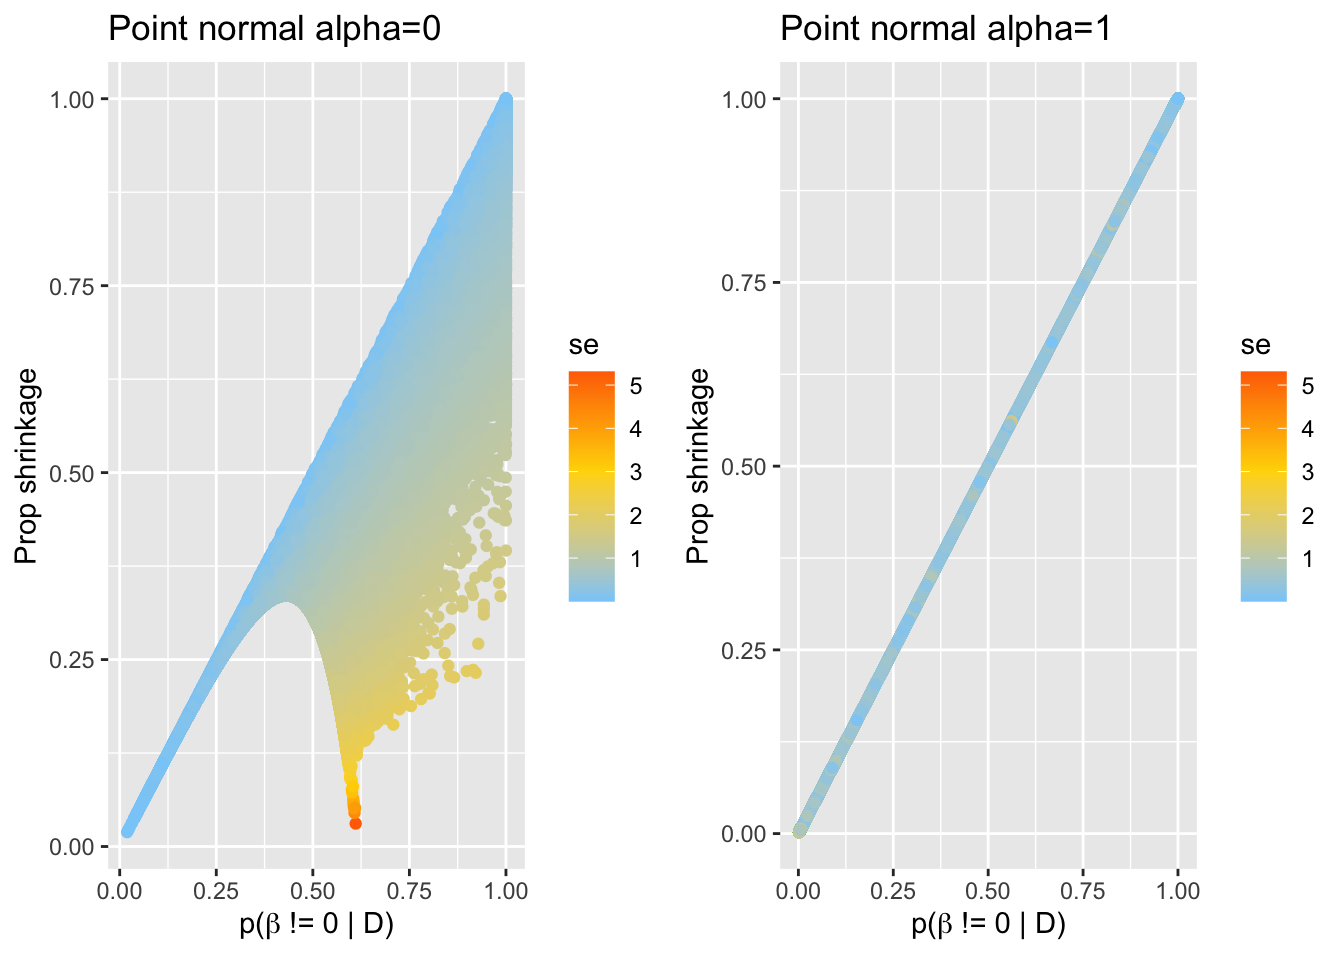
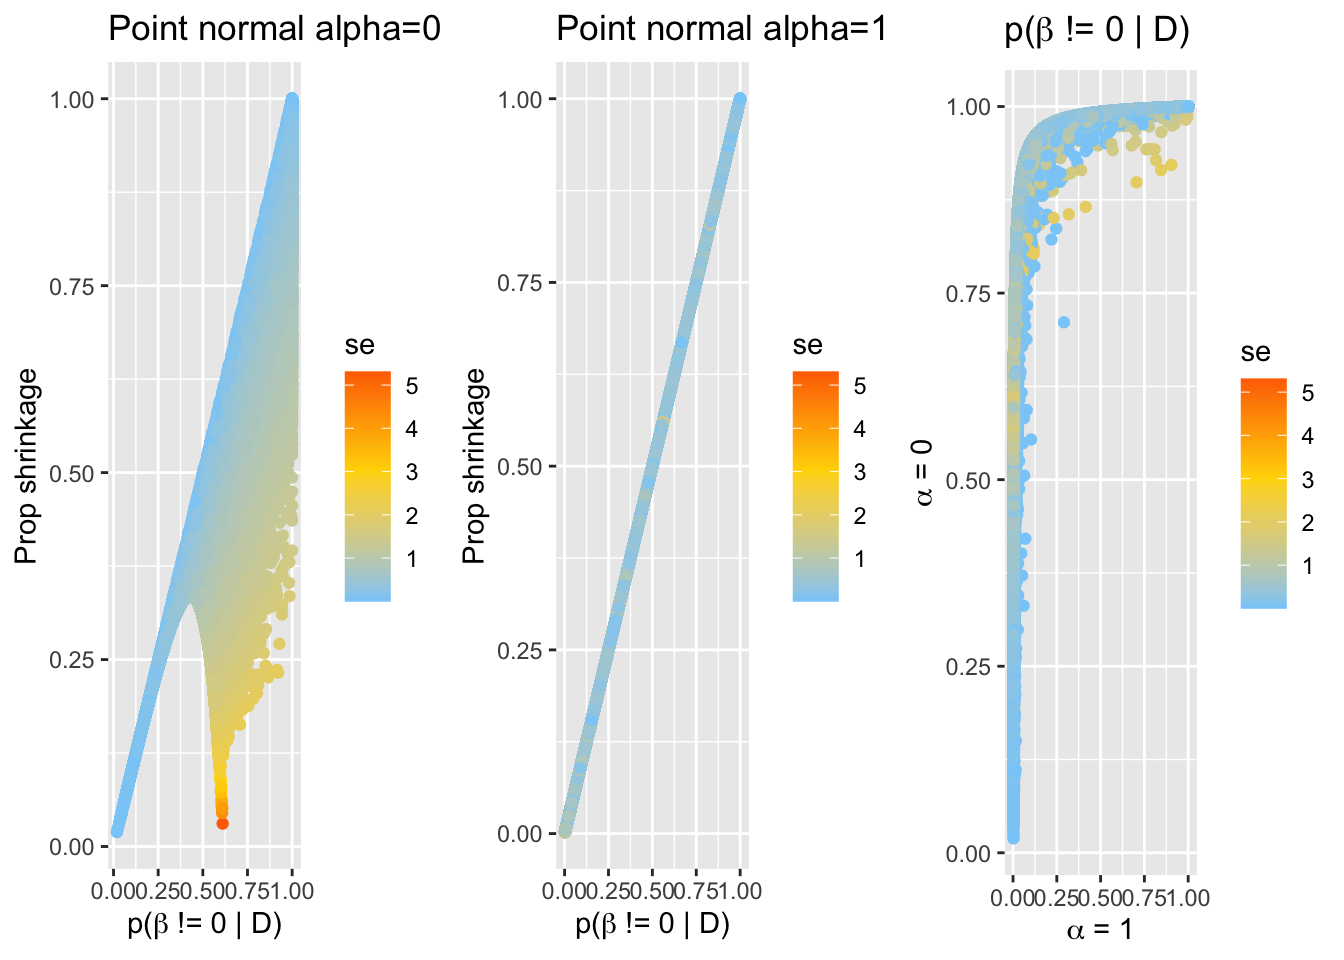
Build site.

diff --git a/docs/alpha_for_single_cell.html b/docs/alpha_for_single_cell.html
@@ -516,16 +516,16 @@ data/de-droplet/de-droplet-noshrink.RData
 <div class="panel panel-default">
 <div class="panel-heading">
 <p class="panel-title">
-<a data-toggle="collapse" data-parent="#workflowr-checks" href="#strongRepositoryversionstrongahrefhttpsgithubcomkarltayeblogisticsusiegseatree67d1eb8196052a3a8b32926b54cbaa843f159bf4targetblank67d1eb8a"> <span class="glyphicon glyphicon-ok text-success" aria-hidden="true"></span> <strong>Repository version:</strong> <a href="https://github.com/karltayeb/logistic-susie-gsea/tree/67d1eb8196052a3a8b32926b54cbaa843f159bf4" target="_blank">67d1eb8</a> </a>
+<a data-toggle="collapse" data-parent="#workflowr-checks" href="#strongRepositoryversionstrongahrefhttpsgithubcomkarltayeblogisticsusiegseatree67092ad1a4d4690a0614eac60587946e101c580ctargetblank67092ada"> <span class="glyphicon glyphicon-ok text-success" aria-hidden="true"></span> <strong>Repository version:</strong> <a href="https://github.com/karltayeb/logistic-susie-gsea/tree/67092ad1a4d4690a0614eac60587946e101c580c" target="_blank">67092ad</a> </a>
 </p>
 </div>
[2 lines of base64/hex data omitted]
 <div class="panel-body">
 <p>
 Great! You are using Git for version control. Tracking code development and connecting the code version to the results is critical for reproducibility.
 </p>
 <p>
-The results in this page were generated with repository version <a href="https://github.com/karltayeb/logistic-susie-gsea/tree/67d1eb8196052a3a8b32926b54cbaa843f159bf4" target="_blank">67d1eb8</a>. See the <em>Past versions</em> tab to see a history of the changes made to the R Markdown and HTML files.
+The results in this page were generated with repository version <a href="https://github.com/karltayeb/logistic-susie-gsea/tree/67092ad1a4d4690a0614eac60587946e101c580c" target="_blank">67092ad</a>. See the <em>Past versions</em> tab to see a history of the changes made to the R Markdown and HTML files.
 </p>
 <p>
 Note that you need to be careful to ensure that all relevant files for the analysis have been committed to Git prior to generating the results (you can use <code>wflow_publish</code> or <code>wflow_git_commit</code>). workflowr only checks the R Markdown file, but you know if there are other scripts or data files that it depends on. Below is the status of the Git repository when the results were generated:
@@ -642,6 +642,40 @@ Message
 </tr>
 </thead>
 <tbody>
+<tr>
+<td>
+Rmd
+</td>
+<td>
+<a href="https://github.com/karltayeb/logistic-susie-gsea/blob/67092ad1a4d4690a0614eac60587946e101c580c/analysis/alpha_for_single_cell.Rmd" target="_blank">67092ad</a>
+</td>
+<td>
+karltayeb
+</td>
+<td>
+2022-04-10
+</td>
+<td>
+wflow_publish(“analysis/alpha_for_single_cell.Rmd”)
+</td>
+</tr>
+<tr>
+<td>
+html
+</td>
+<td>
+<a href="https://rawcdn.githack.com/karltayeb/logistic-susie-gsea/690723cd37813f460aee4c07daafcbbc04264ee8/docs/alpha_for_single_cell.html" target="_blank">690723c</a>
+</td>
+<td>
+karltayeb
+</td>
+<td>
+2022-04-10
+</td>
+<td>
+Build site.
+</td>
+</tr>
 <tr>
 <td>
 Rmd
@@ -809,6 +843,43 @@ p3 &lt;- ggplot(quantiles, aes(x = q.ash.0,y = q.ash.1)) +
   theme_cowplot(font_size = 12)
 plot_grid(p1,p2,p3,nrow = 1,ncol = 3)</code></pre>
 <p><img src="figure/alpha_for_single_cell.Rmd/ash.plot-1.png" width="672" style="display: block; margin: auto;" /></p>
+<p>
+<button type="button" class="btn btn-default btn-xs btn-workflowr btn-workflowr-fig" data-toggle="collapse" data-target="#fig-ash.plot-1">
+Past versions of ash.plot-1.png
+</button>
+</p>
+<div id="fig-ash.plot-1" class="collapse">
+<div class="table-responsive">
+<table class="table table-condensed table-hover">
+<thead>
+<tr>
+<th>
+Version
+</th>
+<th>
+Author
+</th>
+<th>
+Date
+</th>
+</tr>
+</thead>
+<tbody>
+<tr>
+<td>
+<a href="https://github.com/karltayeb/logistic-susie-gsea/blob/690723cd37813f460aee4c07daafcbbc04264ee8/docs/figure/alpha_for_single_cell.Rmd/ash.plot-1.png" target="_blank">690723c</a>
+</td>
+<td>
+karltayeb
+</td>
+<td>
+2022-04-10
+</td>
+</tr>
+</tbody>
+</table>
+</div>
+</div>
 <pre class="r"><code># Plot likelihood vs. alpha.
 p1 &lt;- ggplot(loglik, aes(x = alpha,y = loglik.point.normal)) +
   geom_point() +
@@ -839,12 +910,86 @@ p3 &lt;- ggplot(quantiles, aes(x = q.pn.0, y = q.pn.1)) +
   theme_cowplot(font_size = 12)
 plot_grid(p1,p2,p3,nrow = 1,ncol = 3)</code></pre>
 <p><img src="figure/alpha_for_single_cell.Rmd/point.normal.plot-1.png" width="672" style="display: block; margin: auto;" /></p>
+<p>
+<button type="button" class="btn btn-default btn-xs btn-workflowr btn-workflowr-fig" data-toggle="collapse" data-target="#fig-point.normal.plot-1">
+Past versions of point.normal.plot-1.png
+</button>
+</p>
+<div id="fig-point.normal.plot-1" class="collapse">
+<div class="table-responsive">
+<table class="table table-condensed table-hover">
+<thead>
+<tr>
+<th>
+Version
+</th>
+<th>
+Author
+</th>
+<th>
+Date
+</th>
+</tr>
+</thead>
+<tbody>
+<tr>
+<td>
+<a href="https://github.com/karltayeb/logistic-susie-gsea/blob/690723cd37813f460aee4c07daafcbbc04264ee8/docs/figure/alpha_for_single_cell.Rmd/point.normal.plot-1.png" target="_blank">690723c</a>
+</td>
+<td>
+karltayeb
+</td>
+<td>
+2022-04-10
+</td>
+</tr>
+</tbody>
+</table>
+</div>
+</div>
 <pre class="r"><code>ggplot(loglik %&gt;% filter(alpha &lt; 0.75), aes(x = alpha,y = loglik.point.normal)) +
   geom_point() +
   geom_line() +
   ggtitle(&quot;point normal: loglik vs. alpha&quot;) +
   theme_cowplot(font_size = 12)</code></pre>
 <p><img src="figure/alpha_for_single_cell.Rmd/loglike.vs.alpha.point.normal-1.png" width="672" style="display: block; margin: auto;" /></p>
+<p>
+<button type="button" class="btn btn-default btn-xs btn-workflowr btn-workflowr-fig" data-toggle="collapse" data-target="#fig-loglike.vs.alpha.point.normal-1">
+Past versions of loglike.vs.alpha.point.normal-1.png
+</button>
+</p>
+<div id="fig-loglike.vs.alpha.point.normal-1" class="collapse">
+<div class="table-responsive">
+<table class="table table-condensed table-hover">
+<thead>
+<tr>
+<th>
+Version
+</th>
+<th>
+Author
+</th>
+<th>
+Date
+</th>
+</tr>
+</thead>
+<tbody>
+<tr>
+<td>
+<a href="https://github.com/karltayeb/logistic-susie-gsea/blob/690723cd37813f460aee4c07daafcbbc04264ee8/docs/figure/alpha_for_single_cell.Rmd/loglike.vs.alpha.point.normal-1.png" target="_blank">690723c</a>
+</td>
+<td>
+karltayeb
+</td>
+<td>
+2022-04-10
+</td>
+</tr>
+</tbody>
+</table>
+</div>
+</div>
 <p>For large <span class="math inline">\(\alpha\)</span> the point normal is not behaving very well. We estimate a large <span class="math inline">\(\hat \pi_0\)</span> and a large <span class="math inline">\(\sigma_0\)</span>. Effects that the model is confident are non-zero experience virtually no shrinkage.</p>
 <pre class="r"><code>library(latex2exp)
 ggplot(params, aes(x=pi0.pn, y=sigma0.pn, color=alpha)) +
@@ -857,6 +1002,43 @@ ggplot(params, aes(x=pi0.pn, y=sigma0.pn, color=alpha)) +
     x = TeX(&#39;$\\hat{\\pi}_0&#39;)
   )</code></pre>
 <p><img src="figure/alpha_for_single_cell.Rmd/alpha.v.sigma0-1.png" width="672" style="display: block; margin: auto;" /></p>
+<p>
+<button type="button" class="btn btn-default btn-xs btn-workflowr btn-workflowr-fig" data-toggle="collapse" data-target="#fig-alpha.v.sigma0-1">
+Past versions of alpha.v.sigma0-1.png
+</button>
+</p>
+<div id="fig-alpha.v.sigma0-1" class="collapse">
+<div class="table-responsive">
+<table class="table table-condensed table-hover">
+<thead>
+<tr>
+<th>
+Version
+</th>
+<th>
+Author
+</th>
+<th>
+Date
+</th>
+</tr>
+</thead>
+<tbody>
+<tr>
+<td>
+<a href="https://github.com/karltayeb/logistic-susie-gsea/blob/690723cd37813f460aee4c07daafcbbc04264ee8/docs/figure/alpha_for_single_cell.Rmd/alpha.v.sigma0-1.png" target="_blank">690723c</a>
+</td>
+<td>
+karltayeb
+</td>
+<td>
+2022-04-10
+</td>
+</tr>
+</tbody>
+</table>
+</div>
+</div>
 <pre class="r"><code>p1 &lt;- ggplot(pdat, aes(x=resp.pn.0, y=1 - (beta.hat - beta.post.pn.0) / beta.hat, color=se)) +
   geom_point() +
   scale_color_gradient2(
@@ -878,8 +1060,55 @@ p2 &lt;- ggplot(pdat, aes(x=resp.pn.1, y=1 - (beta.hat - beta.post.pn.1)/beta.ha
     title=&#39;Point normal alpha=1&#39;
   )
 
-cowplot::plot_grid(p1, p2, ncol=2)</code></pre>
+p3 &lt;- ggplot(pdat, aes(x=resp.pn.1, y=resp.pn.0, color=se)) +
+  geom_point() +
+  scale_color_gradient2(
+    low = &quot;lightskyblue&quot;,mid = &quot;gold&quot;, high = &quot;orangered&quot;, midpoint = 3)+
+  labs(
+    x=TeX(&#39;\\alpha = 1&#39;),
+    y=TeX(&#39;\\alpha = 0&#39;),
+    title=TeX(&#39;p(\\beta != 0 | D)&#39;)
+  )  
+
+cowplot::plot_grid(p1, p2, p3, ncol=3)</code></pre>
 <p><img src="figure/alpha_for_single_cell.Rmd/shirnkage.vs.responsibility-1.png" width="672" style="display: block; margin: auto;" /></p>
+<p>
+<button type="button" class="btn btn-default btn-xs btn-workflowr btn-workflowr-fig" data-toggle="collapse" data-target="#fig-shirnkage.vs.responsibility-1">
+Past versions of shirnkage.vs.responsibility-1.png
+</button>
+</p>
+<div id="fig-shirnkage.vs.responsibility-1" class="collapse">
+<div class="table-responsive">
+<table class="table table-condensed table-hover">
+<thead>
+<tr>
+<th>
+Version
+</th>
+<th>
+Author
+</th>
+<th>
+Date
+</th>
+</tr>
+</thead>
+<tbody>
+<tr>
+<td>
+<a href="https://github.com/karltayeb/logistic-susie-gsea/blob/690723cd37813f460aee4c07daafcbbc04264ee8/docs/figure/alpha_for_single_cell.Rmd/shirnkage.vs.responsibility-1.png" target="_blank">690723c</a>
+</td>
+<td>
+karltayeb
+</td>
+<td>
+2022-04-10
+</td>
+</tr>
+</tbody>
+</table>
+</div>
+</div>
 <pre class="r"><code>se.quantile &lt;- quantile(se, seq(0, 1, by=0.25))
 bins &lt;- cut(se, breaks=se.quantile, labels=paste0(seq(25, 100, by=25), &#39;%&#39;))
 
@@ -903,6 +1132,58 @@ cowplot::plot_grid(p1, p2, ncol=2)</code></pre>
 <pre><code>`stat_bin()` using `bins = 30`. Pick better value with `binwidth`.
 `stat_bin()` using `bins = 30`. Pick better value with `binwidth`.</code></pre>
 <p><img src="figure/alpha_for_single_cell.Rmd/se.quantile.hist-1.png" width="672" style="display: block; margin: auto;" /></p>
+<p>
+<button type="button" class="btn btn-default btn-xs btn-workflowr btn-workflowr-fig" data-toggle="collapse" data-target="#fig-se.quantile.hist-1">
+Past versions of se.quantile.hist-1.png
+</button>
+</p>
+<div id="fig-se.quantile.hist-1" class="collapse">
+<div class="table-responsive">
+<table class="table table-condensed table-hover">
+<thead>
+<tr>
+<th>
+Version
+</th>
+<th>
+Author
+</th>
+<th>
+Date
+</th>
+</tr>
+</thead>
+<tbody>
+<tr>
+<td>
+<a href="https://github.com/karltayeb/logistic-susie-gsea/blob/690723cd37813f460aee4c07daafcbbc04264ee8/docs/figure/alpha_for_single_cell.Rmd/se.quantile.hist-1.png" target="_blank">690723c</a>
+</td>
+<td>
+karltayeb
+</td>
+<td>
+2022-04-10
+</td>
+</tr>
+</tbody>
+</table>
+</div>
+</div>
+<pre class="r"><code>ash.fits[[1]]$result %&gt;% head()</code></pre>
+<pre><code>      betahat sebetahat NegativeProb PositiveProb      lfsr    svalue      lfdr
+1  2.58212791 1.1732159    0.1215613    0.3500913 0.6499087 0.2084865 0.5283474
+2  0.32558790 1.0531090    0.1819386    0.2068794 0.7931206 0.6581300 0.6111820
+3 -0.06576014 1.5470965    0.1991641    0.1964864 0.8008359 0.6851297 0.6043494
+4 -0.14578994 0.4899848    0.1983269    0.1632234 0.8016731 0.6879907 0.6384496
+5 -0.35677658 0.8606319    0.2111434    0.1734764 0.7888566 0.6406771 0.6153802
+6  1.08295035 1.4687935    0.1752071    0.2245623 0.7754377 0.5314872 0.6002306
+     qvalue PosteriorMean PosteriorSD
+1 0.1530132   0.239437038   0.6330393
+2 0.4864695   0.013693219   0.2192425
+3 0.4496810  -0.001836154   0.2585854
+4 0.5555032  -0.011684457   0.1410027
+5 0.5081373  -0.018360590   0.2008356
+6 0.3961148   0.034677048   0.2840269</code></pre>
 <pre class="r"><code>knitr::knit_exit()</code></pre>
 </div>
 
